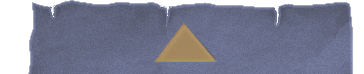
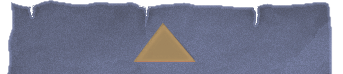
added mouse event & menu (non-functional)

diff --git a/Platform/Menu.cpp b/Platform/Menu.cpp
@@ -1,6 +1,6 @@
 #include "Menu.h"
-
-
+#include <iostream>
+using namespace std;
 SDL_Texture* Menu::menu_closed = NULL;
 SDL_Texture* Menu::menu_opened = NULL;
 
@@ -12,36 +12,62 @@ Menu::Menu()
     pos.x = (M_WINDOW_WIDTH - MENU_SIZE_W)/2;
     menu = true;
     animation = false;
+    direction = 1;
 
 }
 
 // NOT TESTED AT ALL!!!!!!!!!!!!!!
-void Menu::render_menu(SDL_Renderer * renderer, int time, int direction)
+void Menu::render_menu(SDL_Renderer * renderer, int time)
 {
-    if (!animation) return;
+    SDL_RenderCopy(renderer, menu ? menu_opened : menu_closed, NULL, &pos);
+}
 
-    double moved = time*animation_speed / 1000.;
-    real_y += (-direction)*moved;
-    pos.y = real_y;
-
-    if ( pos.y > M_WINDOW_HEIGHT)
+void Menu::update(int time, Mouse_event* me)
+{
+    if (animation)
     {
-        menu = !menu;
+        double moved = time*animation_speed / 1000.;
+        real_y += (-direction)*moved;
+        pos.y = real_y;
+
+        if ( pos.y > M_WINDOW_HEIGHT)
+        {
+            menu = !menu;
+            direction *= -1;
+            pos.h = menu ? MENU_L_SIZE_H : MENU_S_SIZE_H;
+        }
+
+        else if( menu && real_y <  M_WINDOW_HEIGHT - MENU_L_SIZE_H)
+        {
+            pos.y = real_y = M_WINDOW_HEIGHT - MENU_L_SIZE_H;
+            animation = false;
+        }
+        else if( !menu && real_y <  M_WINDOW_HEIGHT - MENU_S_SIZE_H)
+        {
+            pos.y = real_y = M_WINDOW_HEIGHT - MENU_S_SIZE_H;
+            animation = false;
+        }
     }
-
-    else if( menu && real_y <  M_WINDOW_HEIGHT - MENU_L_SIZE_H)
+    else if (me)
     {
-        pos.y = real_y = M_WINDOW_HEIGHT - MENU_L_SIZE_H;
-        animation = false;
-    }
-    else if( !menu && real_y <  M_WINDOW_HEIGHT - MENU_L_SIZE_H)
-    {
-        pos.y = real_y = M_WINDOW_HEIGHT - MENU_S_SIZE_H;
-        animation = false;
+        if (point_inside_tr(menu ? toggle_points_l : toggle_points_s, me->x, me->y))
+        {
+            toggle_menu();
+        }
     }
 }
 
 void Menu::toggle_menu()
 {
     animation = true;
+    direction *= -1;
+}
+
+bool point_inside_tr(int p[3][2], int x, int y){
+
+    int a = (x-p[0][0])*(p[1][1] - p[0][1]) - (p[1][0] - p[0][0])*(y-p[0][1]);
+    int b = (x-p[1][0])*(p[2][1] - p[1][1]) - (p[2][0] - p[1][0])*(y-p[1][1]);
+    int c = (x-p[2][0])*(p[0][1] - p[2][1]) - (p[0][0] - p[2][0])*(y-p[2][1]);
+
+    return ((a < 0 && b < 0 && c < 0) || (a > 0 && b > 0 && c > 0));
 }

diff --git a/Platform/CoreEngine.cpp b/Platform/CoreEngine.cpp
@@ -1,4 +1,5 @@
 #include "CoreEngine.h"
+#include "Menu.h"
 
 #include <iostream>
 #include <fstream>
@@ -68,7 +69,7 @@ bool CoreEngine::loadMedia()
 {
 	//Loading success flag
 	bool success = true;
-	
+
 	//Open image config file
 	ifstream input_file;
 	string path, line;
@@ -194,6 +195,24 @@ bool CoreEngine::loadMedia()
 					}
 				}
 			}
+			// Load menu images
+			else if (line == "menu")
+			{
+				getline(input_file, path);
+				Menu::menu_opened = loadTexture(path);
+                if (Menu::menu_opened == NULL)
+                {
+                    printf("Failed to load menu texture image!\n");
+                    success = false;
+                }
+                getline(input_file, path);
+				Menu::menu_closed = loadTexture(path);
+                if (Menu::menu_closed == NULL)
+                {
+                    printf("Failed to load menu texture image!\n");
+                    success = false;
+                }
+			}
 		}
 		input_file.close();
 	}
@@ -202,7 +221,7 @@ bool CoreEngine::loadMedia()
 
 void CoreEngine::close()
 {
-	//Free background 
+	//Free background
 	SDL_DestroyTexture(background_texture);
 	background_texture = NULL;
 
@@ -315,6 +334,7 @@ void CoreEngine::runGamingLoop()
 
 				InputHandler handler;
 				Custom_event ce;
+				Menu menu;
 				// The Game loop
 				while (game_running)
 				{
@@ -338,10 +358,10 @@ void CoreEngine::runGamingLoop()
 
 					//Clear screen
 					SDL_RenderClear(gRenderer);
-					
+
 					//Render background
 					SDL_RenderCopy(gRenderer, background_texture, NULL, NULL);
-				
+
 					//Render Tiles to screen
 					for (int i = 0; i <  GRID_HEIGHT; ++i)
 					{
@@ -350,13 +370,15 @@ void CoreEngine::runGamingLoop()
                              for (int k = 0; k < m_world.worldGrid[i][y].size();)
 							{
                                 Actor* actor = m_world.worldGrid[i][y][k];
-								deletion = actor->update(time_passed, ce.ke);
+								if (!menu.menu)
+                                deletion = actor->update(time_passed, ce.ke);
 								actor->render(gRenderer, time_passed, *this);
                                 if (!deletion) k++;
 							}
 						}
 					}
-
+					menu.update(time_passed, ce.me);
+                    menu.render_menu(gRenderer,time_passed);
 					//Update screen
 					SDL_RenderPresent(gRenderer);
 

diff --git a/Platform/Menu.h b/Platform/Menu.h
@@ -9,11 +9,26 @@
 #endif
 
 #include "Globals.h"
+#include "Input_Handler.h"
 
-const int animation_speed = 500*SCALE_FACTOR;
-const int MENU_SIZE_W = 364*SCALE_FACTOR;
+const int animation_speed = 1300*SCALE_FACTOR;
+const int MENU_SIZE_W = 343*SCALE_FACTOR;
 const int MENU_S_SIZE_H = 74*SCALE_FACTOR;
-const int MENU_L_SIZE_H = 741*SCALE_FACTOR;
+const int MENU_L_SIZE_H = 849*SCALE_FACTOR;
+
+//poins of triangle (toggle menu) buttons
+static int toggle_points_l[3][2] = {
+                                    {133*SCALE_FACTOR + (M_WINDOW_WIDTH - MENU_SIZE_W)/2, 46*SCALE_FACTOR + M_WINDOW_HEIGHT - MENU_L_SIZE_H},
+                                    {250*SCALE_FACTOR + (M_WINDOW_WIDTH - MENU_SIZE_W)/2, 46*SCALE_FACTOR + M_WINDOW_HEIGHT - MENU_L_SIZE_H},
+                                    {189*SCALE_FACTOR + (M_WINDOW_WIDTH - MENU_SIZE_W)/2, 113*SCALE_FACTOR + M_WINDOW_HEIGHT - MENU_L_SIZE_H}
+                                };
+static int toggle_points_s[3][2] = {
+                                    {183*SCALE_FACTOR + (M_WINDOW_WIDTH - MENU_SIZE_W)/2, 22*SCALE_FACTOR + M_WINDOW_HEIGHT - MENU_S_SIZE_H},
+                                    {153*SCALE_FACTOR + (M_WINDOW_WIDTH - MENU_SIZE_W)/2, 60*SCALE_FACTOR + M_WINDOW_HEIGHT - MENU_S_SIZE_H},
+                                    {215*SCALE_FACTOR + (M_WINDOW_WIDTH - MENU_SIZE_W)/2, 60*SCALE_FACTOR + M_WINDOW_HEIGHT - MENU_S_SIZE_H}
+                                };
+
+bool point_inside_tr(int p[3][2], int x, int y);
 
 class Menu
 {
@@ -24,10 +39,10 @@ public:
     double real_y;
     bool menu;
     bool animation;
-
+    int direction;
     Menu ();
 
     void toggle_menu();
-
-    void render_menu(SDL_Renderer * renderer, int time_passed, int direction);
+    void update(int time, Mouse_event* me);
+    void render_menu(SDL_Renderer * renderer, int time_passed);
 };

diff --git a/Platform/Input_Handler.cpp b/Platform/Input_Handler.cpp
@@ -15,9 +15,12 @@ InputHandler::handle()
         {
             result.quit = true;
         }
-        else if(event.type == SDL_MOUSEBUTTONDOWN || event.type == SDL_MOUSEBUTTONUP)
+        else if(event.type == SDL_MOUSEBUTTONDOWN && event.button.button == SDL_BUTTON_LEFT) //|| event.type == SDL_MOUSEBUTTONUP)
         {
-            //
+            me.x = event.button.x;
+            me.y = event.button.y;
+
+            result.me = &me;
         }
          else if(event.type == SDL_KEYDOWN || event.type == SDL_KEYUP)
         {

diff --git a/Platform/Coin.cpp b/Platform/Coin.cpp
@@ -27,11 +27,11 @@ void Coin::render(SDL_Renderer * renderer, int time_passed, CoreEngine & core)
 		frame %= core.enemy_textures.size();
 		lastUpdated -= 1000;
 	}
-	
+
 		if (direction < 0)
 		{
 			SDL_RenderCopy(renderer, core.enemy_textures[frame], NULL, &pos_rect);
-			
+
 		}
 		else
 		{

diff --git a/Platform/Input_Handler.h b/Platform/Input_Handler.h
@@ -16,7 +16,8 @@ struct Key_event
 
 struct Mouse_event
 {
-   //
+   int x;
+   int y;
 };
 
 struct Custom_event
